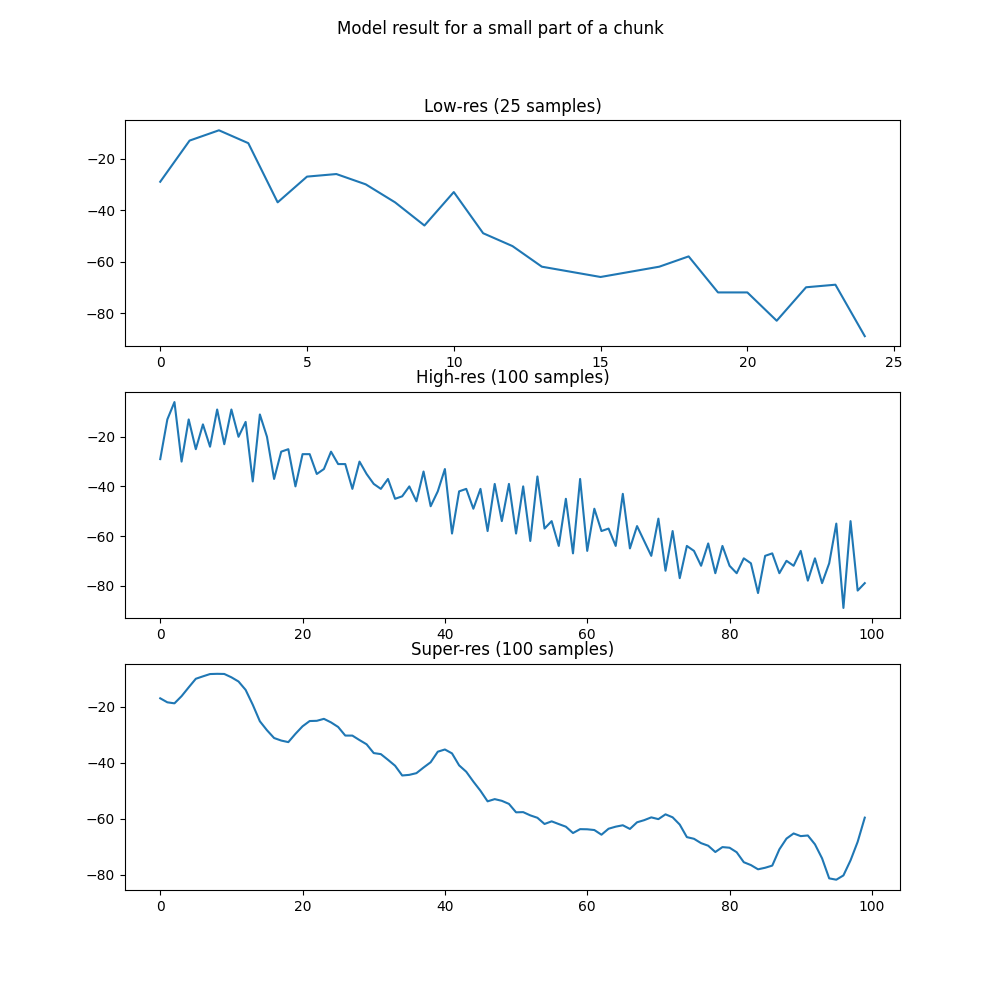
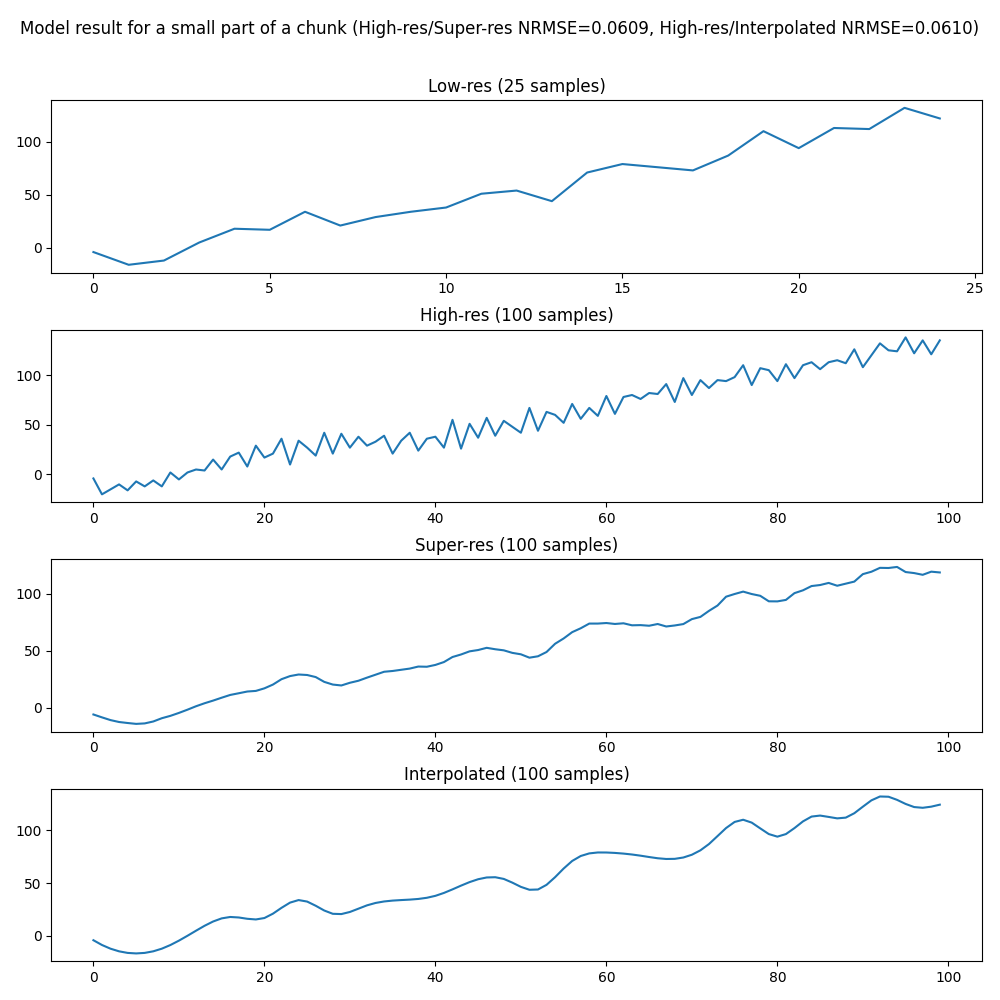
Add interpolated version in the plots
The model clearly needs more training epochs or more filters in the convolutional layers (as the paper also mentions), because the input size is large and requires much more parameters to learn a pattern in the data.
One good idea would be to try training models on AWS Sagemaker to save time.

diff --git a/Project/plots.py b/Project/plots.py
@@ -55,40 +55,61 @@ for batch_index in range(0, BATCH_SIZE):
 
 random_batch_index = random.randint(0, BATCH_SIZE)
 result = model.predict(np.array(batch_used_for_prediction))
+interpolated_chunk = DatasetGenerator.upsample(np.array(batch_used_for_prediction[random_batch_index]), RESAMPLING_FACTOR)
 
-figure, axes = plt.subplots(3, 1, figsize=(10, 10))
-axes[0].set_title("Low-res (1200 samples)")
+figure, axes = plt.subplots(4, 1, figsize=(16, 10))
+axes[0].set_title("Low-res (1200 samples = 25 ms)")
 axes[0].plot(batch_used_for_prediction[random_batch_index])
-axes[1].set_title("High-res (4800 samples)")
+axes[1].set_title("High-res (4800 samples = 100 ms)")
 axes[1].plot(high_res_chunks[random_batch_index])
-axes[2].set_title("Super-res (4800 samples)")
+axes[2].set_title("Super-res (4800 samples = 100 ms)")
 axes[2].plot(result[random_batch_index])
+axes[3].set_title("Interpolated (4800 samples = 100 ms)")
+axes[3].plot(interpolated_chunk)
 
 high_res_chunk = high_res_chunks[random_batch_index].astype(np.float32)
 super_res_chunk = np.array(result[random_batch_index]).reshape(result[random_batch_index].shape[0]).astype(np.float32)
 
-nrmse_high_res_super_res = normalised_root_mean_squared_error(high_res_chunk, super_res_chunk)
-figure.suptitle("Whole chunks (High-res/Super-res NRMSE={})".format(round(nrmse_high_res_super_res, 4)))
+nrmse_high_res_super_res = normalised_root_mean_squared_error(high_res_chunk, super_res_chunk).numpy()
+nrmse_high_res_interpolated = normalised_root_mean_squared_error(high_res_chunk, interpolated_chunk).numpy()
+print(nrmse_high_res_super_res)
+print(nrmse_high_res_interpolated)
+figure.tight_layout()
+figure.suptitle("Whole chunks (high-res/super-res NRMSE={:.4f}, high-res/interpolated NRMSE={:.4f})".format(nrmse_high_res_super_res, nrmse_high_res_interpolated))
+plt.subplots_adjust(top=0.9)
 plt.savefig("outputs/whole-chunks.png")
 plt.show()
 
-figure, axes = plt.subplots(3, 1, figsize=(10, 10))
+figure, axes = plt.subplots(4, 1, figsize=(10, 10))
 axes[0].set_title("Low-res (25 samples)")
 axes[0].plot(batch_used_for_prediction[random_batch_index][0:25])
 axes[1].set_title("High-res (100 samples)")
 axes[1].plot(high_res_chunks[random_batch_index][0:100])
 axes[2].set_title("Super-res (100 samples)")
 axes[2].plot(result[random_batch_index][0:100])
+axes[3].set_title("Interpolated (100 samples)")
+axes[3].plot(interpolated_chunk[0:100])
 part_of_the_high_res_chunk = high_res_chunks[random_batch_index][0:100].astype(np.float32)
 part_of_the_super_res_chunk = np.array(result[random_batch_index][0:100]).reshape(result[random_batch_index][0:100].shape[0]).astype(np.float32)
+part_of_the_interpolated_chunk = interpolated_chunk[0:100].astype(np.float32)
 nrmse_parts_of_the_chunk_high_res_super_res = normalised_root_mean_squared_error(part_of_the_high_res_chunk, part_of_the_super_res_chunk)
-figure.suptitle("Model result for a small part of a chunk (High-res/Super-res NRMSE={})".format(round(nrmse_parts_of_the_chunk_high_res_super_res, 4)))
+nrmse_parts_of_the_chunk_high_res_interpolated = normalised_root_mean_squared_error(part_of_the_high_res_chunk, part_of_the_interpolated_chunk)
+figure.tight_layout()
+figure.suptitle("Model result for a small part of a chunk (High-res/Super-res NRMSE={:.4f}, High-res/Interpolated NRMSE={:.4f})".format(nrmse_parts_of_the_chunk_high_res_super_res, nrmse_parts_of_the_chunk_high_res_interpolated))
+plt.subplots_adjust(top=0.9)
 plt.savefig("outputs/small-part-of-a-chunk.png")
 plt.show()
 
 figure, axes = plt.subplots(1, 1, figsize=(10, 10))
 axes.scatter(x=[i for i in range(0, 100)], y=high_res_chunks[random_batch_index][0:100], color="red")
 axes.scatter(x=[i for i in range(0, 100)], y=result[random_batch_index][0:100], color="green")
-figure.suptitle("Scatterplot - Model result for a small part of a chunk (High-res (red)/Super-res (green) NRMSE={})".format(round(nrmse_parts_of_the_chunk_high_res_super_res, 4)))
+figure.suptitle("Scatterplot - Model result for a small part of a chunk (High-res (red)/Super-res (green) NRMSE={:.4f})".format(nrmse_parts_of_the_chunk_high_res_super_res))
 plt.savefig("outputs/scatterplot-high-res-super-res.png")
+plt.show()
+
+figure, axes = plt.subplots(1, 1, figsize=(10, 10))
+axes.scatter(x=[i for i in range(0, 100)], y=high_res_chunks[random_batch_index][0:100], color="red")
+axes.scatter(x=[i for i in range(0, 100)], y=interpolated_chunk[0:100], color="blue")
+figure.suptitle("Scatterplot - Model result for a small part of a chunk (High-res (red)/Interpolated (blue) NRMSE={:.4f})".format(nrmse_parts_of_the_chunk_high_res_interpolated))
+plt.savefig("outputs/scatterplot-high-res-interpolated.png")
 plt.show()
